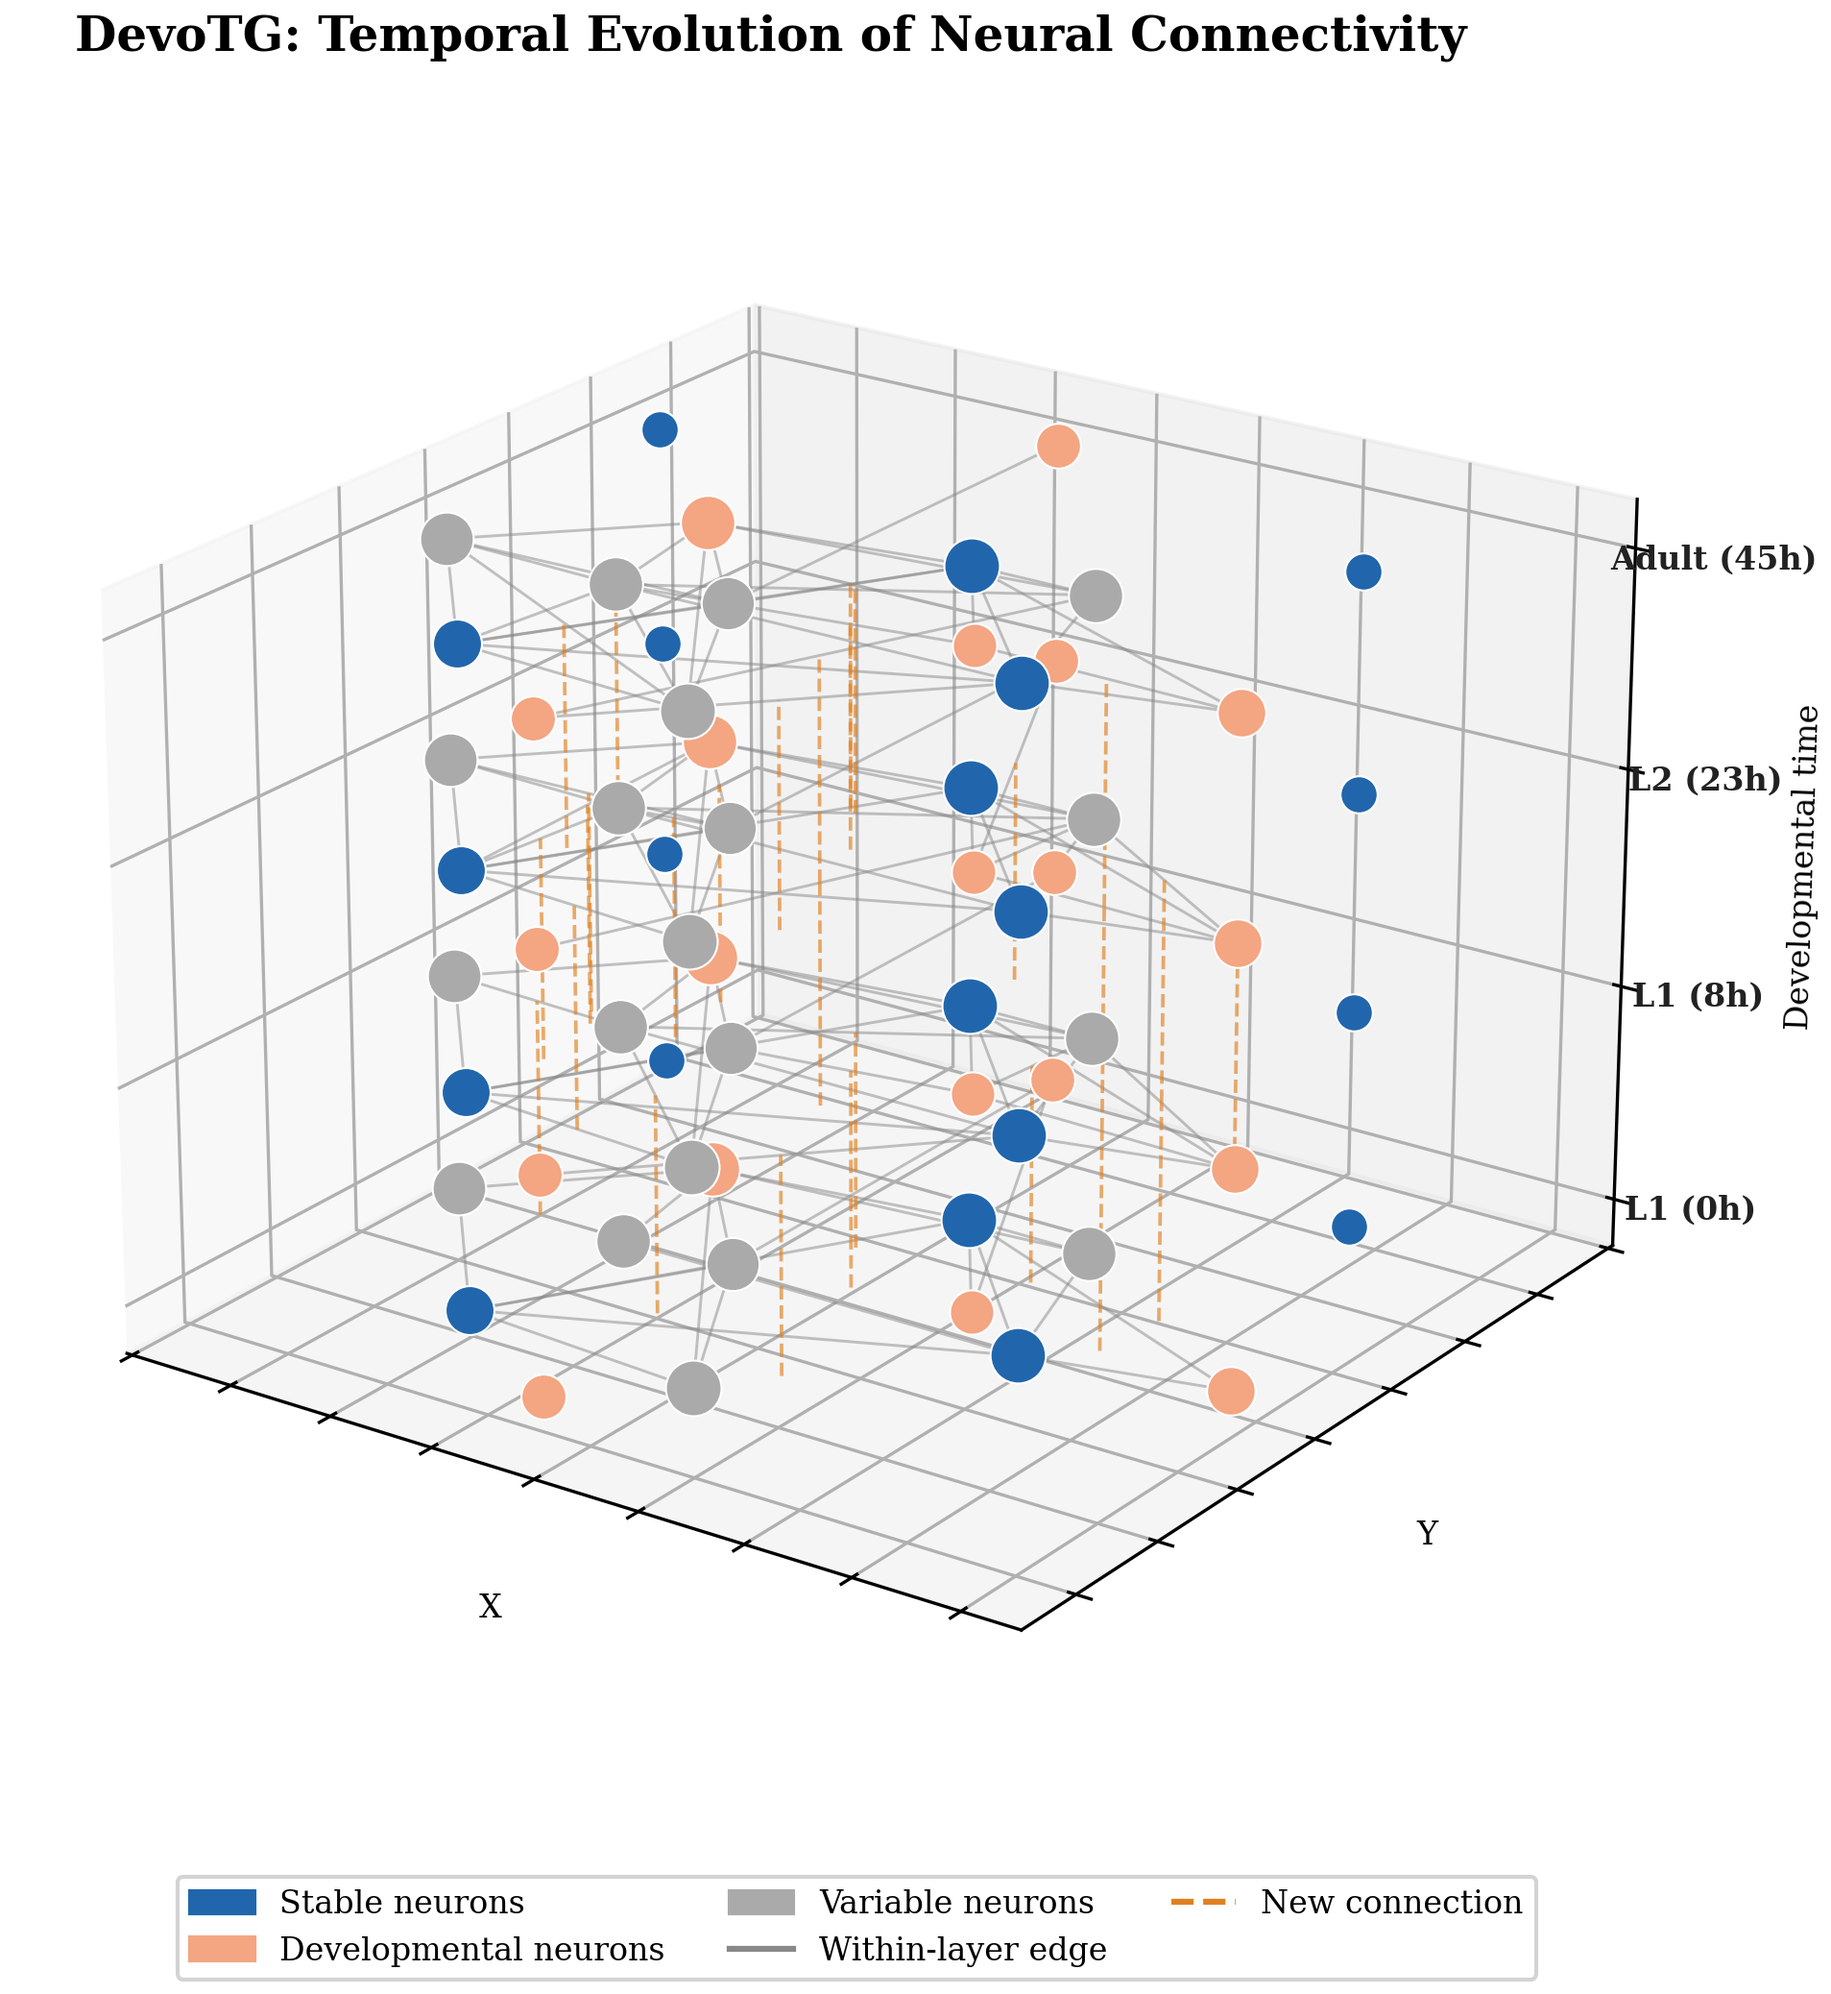
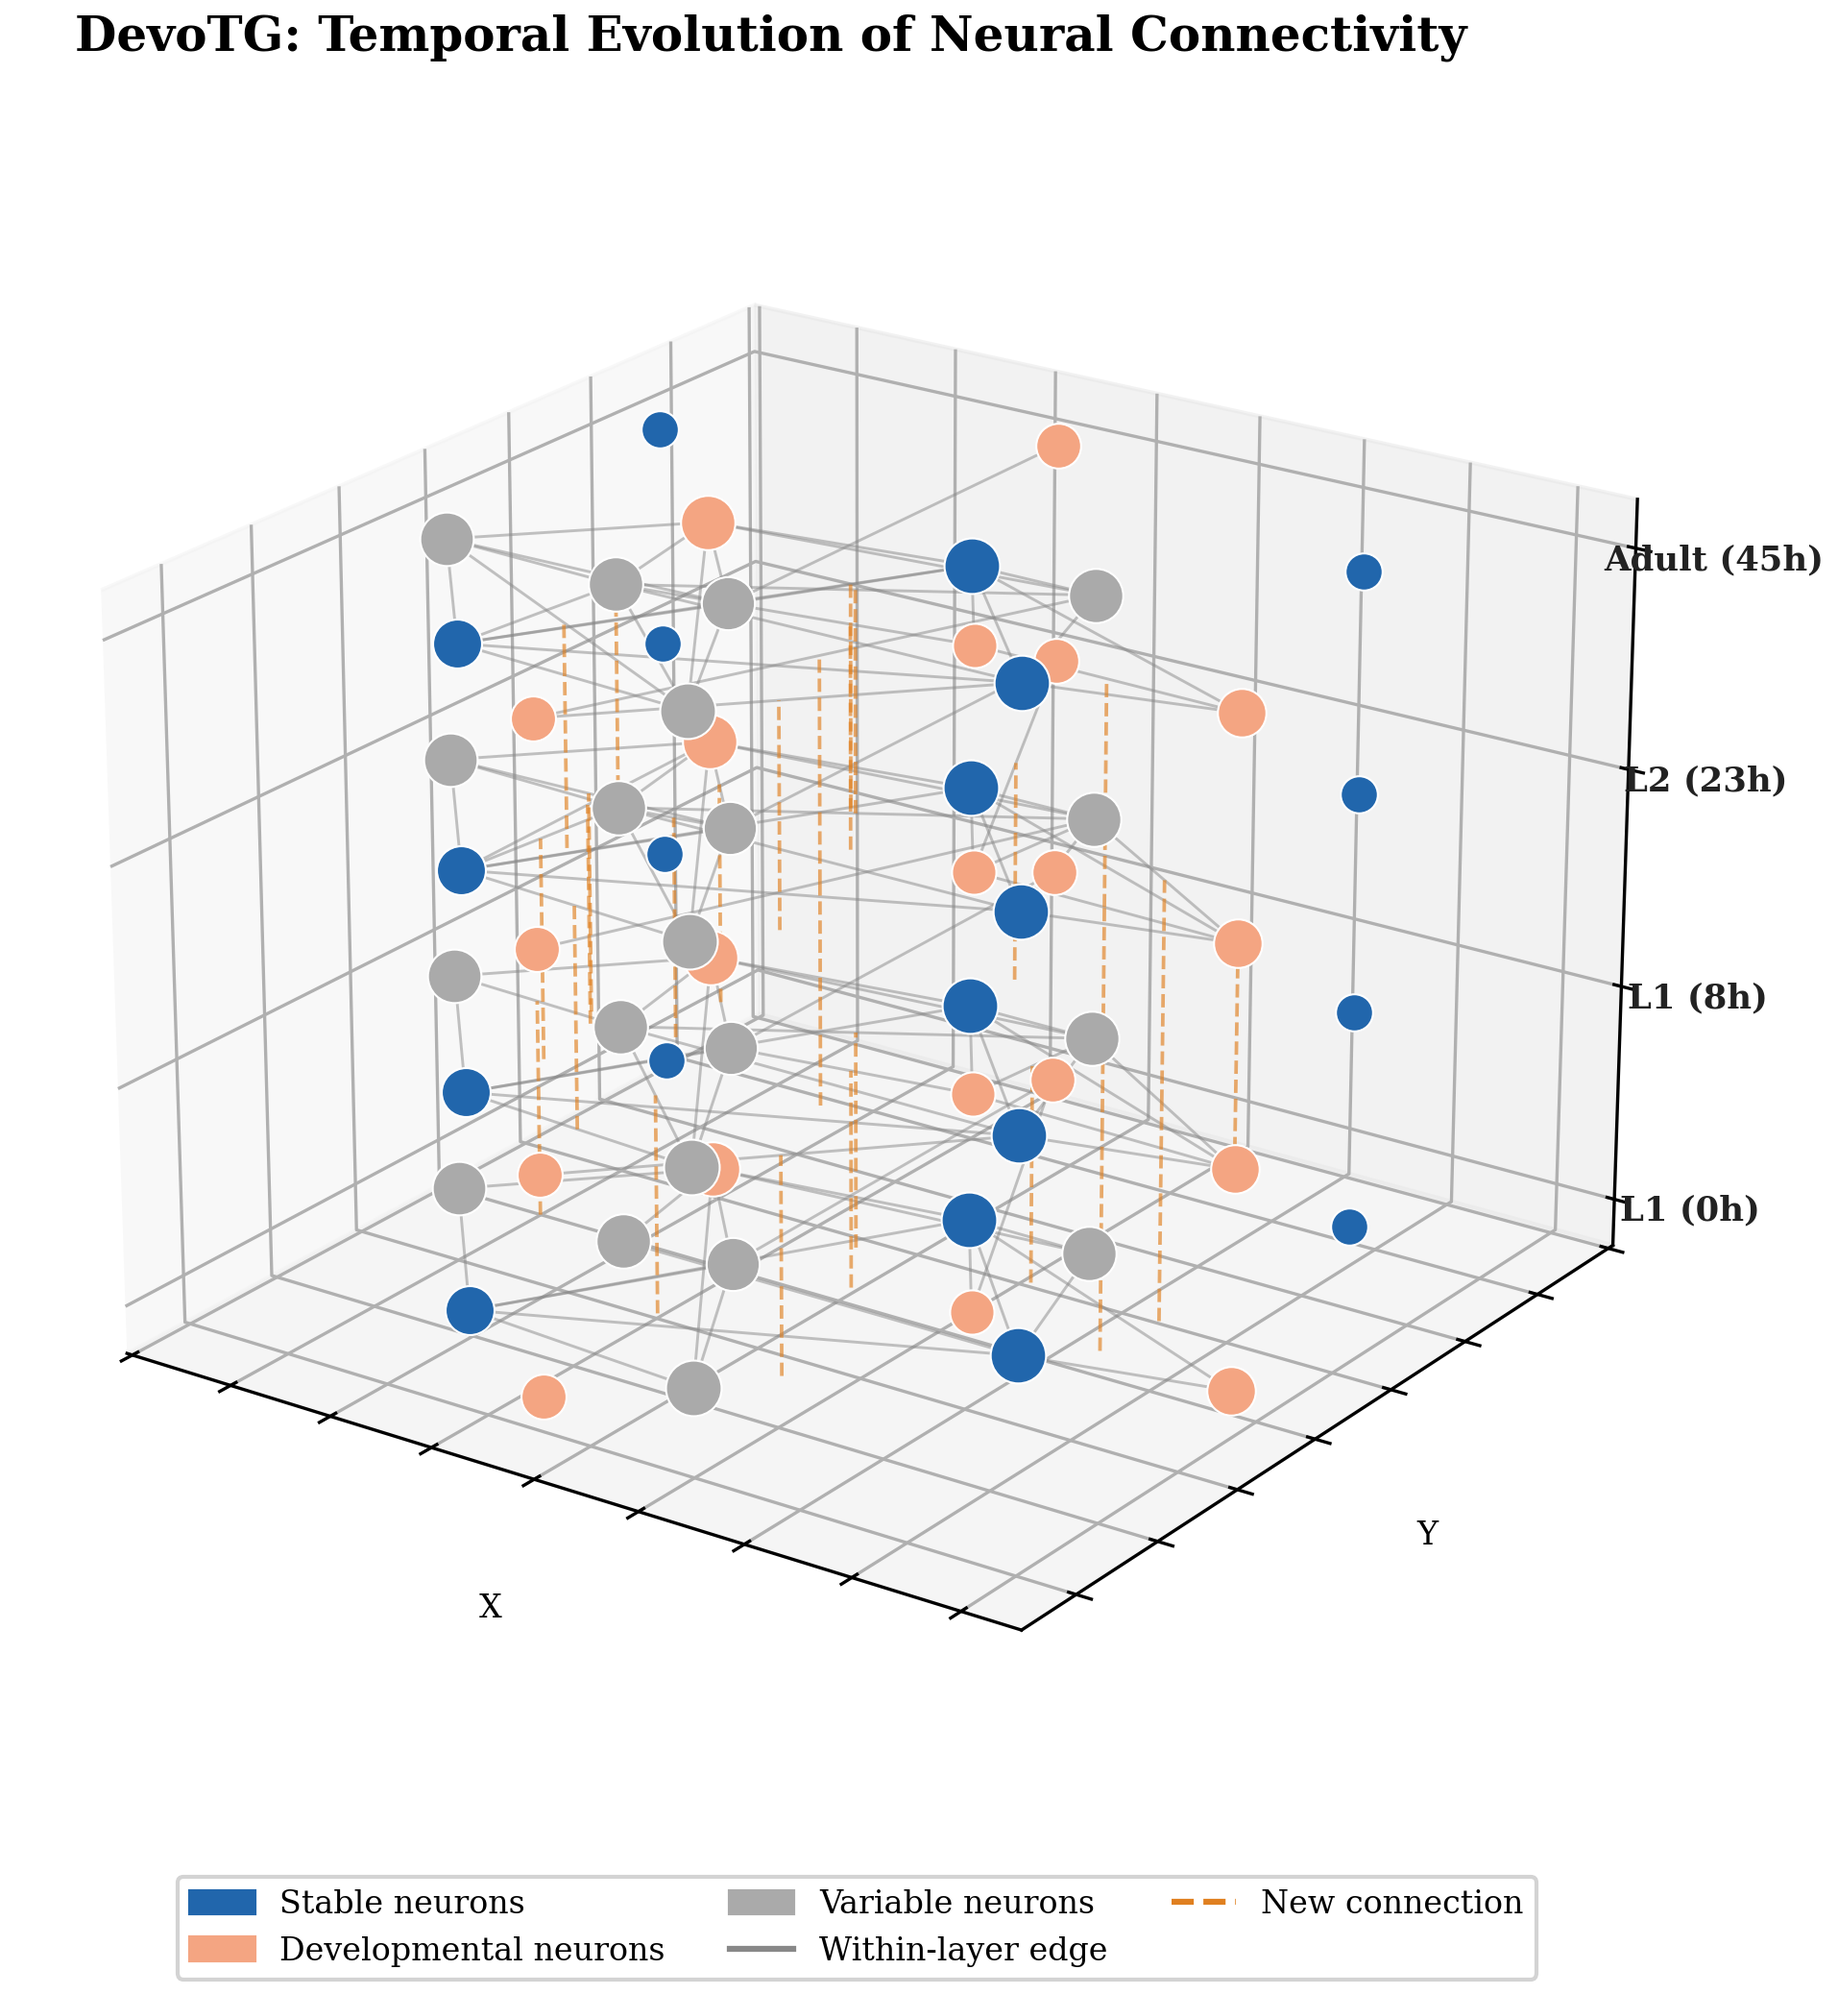
fix(fig1): remove z-axis label that overlapped tick labels on right side
The 'Developmental time' zlabel was rendered vertically right on top of
the z-tick labels (Adult 45h, L2 23h, L1 8h, L1 0h), making both
unreadable. Removed the redundant label — the tick labels already
convey the time axis meaning. Tick label font slightly increased to 8.5pt.

diff --git a/scripts/generate_paper_figures.py b/scripts/generate_paper_figures.py
@@ -223,11 +223,11 @@ def generate_figure1_sample_devotg(output_dir: Path) -> None:
 
     ax.set_xlabel("X", fontsize=8, labelpad=2)
     ax.set_ylabel("Y", fontsize=8, labelpad=2)
-    ax.set_zlabel("Developmental time", fontsize=8, labelpad=6)
+    ax.set_zlabel("")   # tick labels are self-explanatory; no redundant label
     # Use built-in z-tick labels — matplotlib positions them correctly on the axis
     ax.set_zticks([tp_z[tp] * z_scale for tp in tp_indices])
     ax.set_zticklabels([tp_labels[tp] for tp in tp_indices],
-                       fontsize=8, fontweight="bold", color="#222222")
+                       fontsize=8.5, fontweight="bold", color="#222222")
     ax.set_xticklabels([])
     ax.set_yticklabels([])
     ax.view_init(elev=22, azim=-55)
